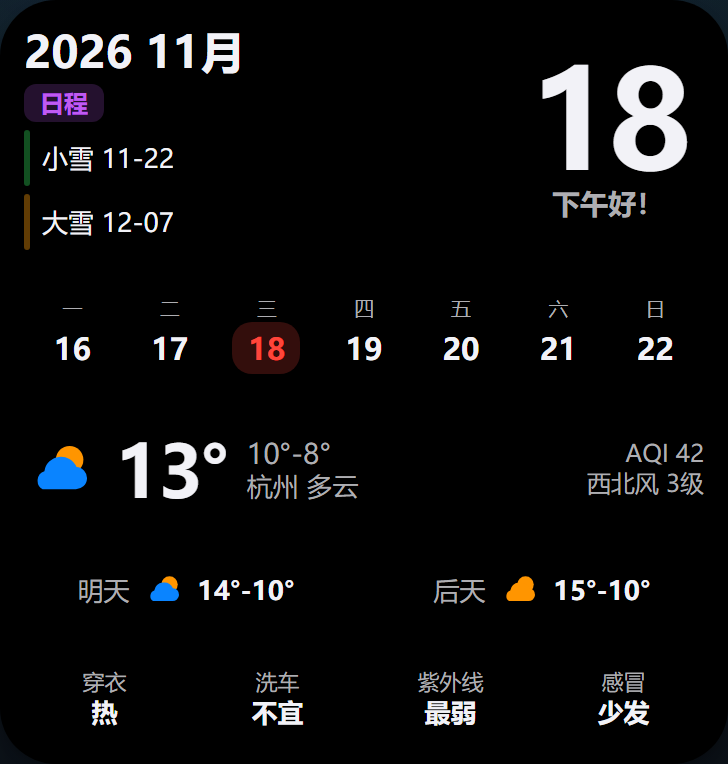
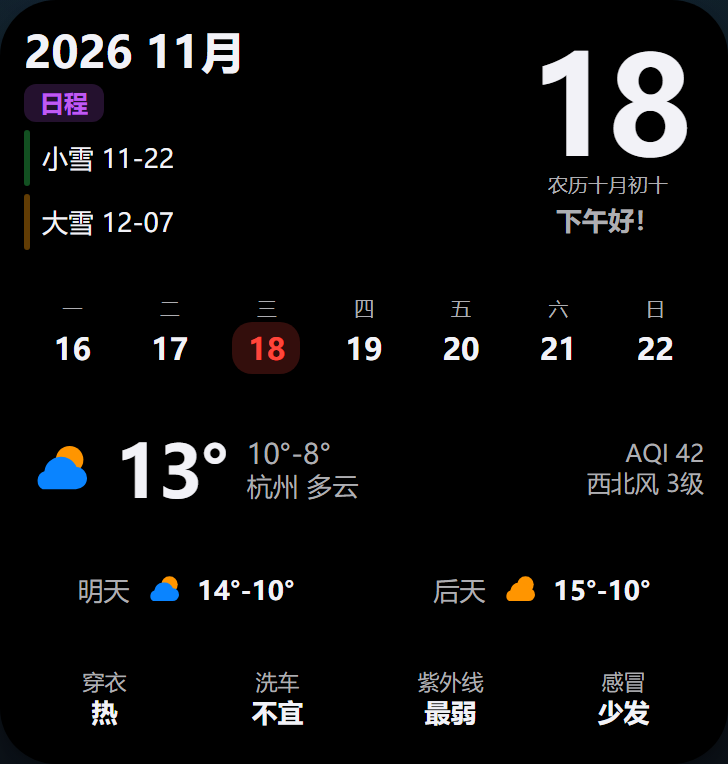
Show lunar date and solar term under the day

Changed region(s): [[0.7555, 0.0602, 0.967, 0.301], [0.7253, 0.0602, 0.8159, 0.1505]]

diff --git a/widget.tsx b/widget.tsx
@@ -547,6 +547,134 @@ function getNextTwoHolidays(): Array<{ name: string; md: string }> {
   return result
 }
 
+const LUNAR_INFO = [
+  0x04bd8, 0x04ae0, 0x0a570, 0x054d5, 0x0d260, 0x0d950, 0x16554, 0x056a0, 0x09ad0, 0x055d2,
+  0x04ae0, 0x0a5b6, 0x0a4d0, 0x0d250, 0x1d255, 0x0b540, 0x0d6a0, 0x0ada2, 0x095b0, 0x14977,
+  0x04970, 0x0a4b0, 0x0b4b5, 0x06a50, 0x06d40, 0x1ab54, 0x02b60, 0x09570, 0x052f2, 0x04970,
+  0x06566, 0x0d4a0, 0x0ea50, 0x06e95, 0x05ad0, 0x02b60, 0x186e3, 0x092e0, 0x1c8d7, 0x0c950,
+  0x0d4a0, 0x1d8a6, 0x0b550, 0x056a0, 0x1a5b4, 0x025d0, 0x092d0, 0x0d2b2, 0x0a950, 0x0b557,
+  0x06ca0, 0x0b550, 0x15355, 0x04da0, 0x0a5b0, 0x14573, 0x052b0, 0x0a9a8, 0x0e950, 0x06aa0,
+  0x0aea6, 0x0ab50, 0x04b60, 0x0aae4, 0x0a570, 0x05260, 0x0f263, 0x0d950, 0x05b57, 0x056a0,
+  0x096d0, 0x04dd5, 0x04ad0, 0x0a4d0, 0x0d4d4, 0x0d250, 0x0d558, 0x0b540, 0x0b6a0, 0x195a6,
+  0x095b0, 0x049b0, 0x0a974, 0x0a4b0, 0x0b27a, 0x06a50, 0x06d40, 0x0af46, 0x0ab60, 0x09570,
+  0x04af5, 0x04970, 0x064b0, 0x074a3, 0x0ea50, 0x06b58, 0x055c0, 0x0ab60, 0x096d5, 0x092e0,
+  0x0c960, 0x0d954, 0x0d4a0, 0x0da50, 0x07552, 0x056a0, 0x0abb7, 0x025d0, 0x092d0, 0x0cab5,
+  0x0a950, 0x0b4a0, 0x0baa4, 0x0ad50, 0x055d9, 0x04ba0, 0x0a5b0, 0x15176, 0x052b0, 0x0a930,
+  0x07954, 0x06aa0, 0x0ad50, 0x05b52, 0x04b60, 0x0a6e6, 0x0a4e0, 0x0d260, 0x0ea65, 0x0d530,
+  0x05aa0, 0x076a3, 0x096d0, 0x04afb, 0x04ad0, 0x0a4d0, 0x1d0b6, 0x0d250, 0x0d520, 0x0dd45,
+  0x0b5a0, 0x056d0, 0x055b2, 0x049b0, 0x0a577, 0x0a4b0, 0x0aa50, 0x1b255, 0x06d20, 0x0ada0,
+  0x14b63, 0x09370, 0x049f8, 0x04970, 0x064b0, 0x168a6, 0x0ea50, 0x06b20, 0x1a6c4, 0x0aae0,
+  0x0a2e0, 0x0d2e3, 0x0c960, 0x0d557, 0x0d4a0, 0x0da50, 0x05d55, 0x056a0, 0x0a6d0, 0x055d4,
+  0x052d0, 0x0a9b8, 0x0a950, 0x0b4a0, 0x0b6a6, 0x0ad50, 0x055a0, 0x0aba4, 0x0a5b0, 0x052b0,
+  0x0b273, 0x06930, 0x07337, 0x06aa0, 0x0ad50, 0x14b55, 0x04b60, 0x0a570, 0x054e4, 0x0d160,
+  0x0e968, 0x0d520, 0x0daa0, 0x16aa6, 0x056d0, 0x04ae0, 0x0a9d4, 0x0a2d0, 0x0d150, 0x0f252,
+  0x0d520,
+]
+
+const LUNAR_DAYS = [
+  "初一", "初二", "初三", "初四", "初五", "初六", "初七", "初八", "初九", "初十",
+  "十一", "十二", "十三", "十四", "十五", "十六", "十七", "十八", "十九", "二十",
+  "廿一", "廿二", "廿三", "廿四", "廿五", "廿六", "廿七", "廿八", "廿九", "三十",
+]
+
+const LUNAR_MONTHS = ["正", "二", "三", "四", "五", "六", "七", "八", "九", "十", "冬", "腊"]
+
+function lunarLeapMonth(year: number): number {
+  return LUNAR_INFO[year - 1900] & 0xf
+}
+
+function lunarLeapDays(year: number): number {
+  if (!lunarLeapMonth(year)) return 0
+  return LUNAR_INFO[year - 1900] & 0x10000 ? 30 : 29
+}
+
+function lunarMonthDays(year: number, month: number): number {
+  return LUNAR_INFO[year - 1900] & (0x10000 >> month) ? 30 : 29
+}
+
+function lunarYearDays(year: number): number {
+  let sum = 348
+  for (let mask = 0x8000; mask > 0x8; mask >>= 1) {
+    sum += LUNAR_INFO[year - 1900] & mask ? 1 : 0
+  }
+  return sum + lunarLeapDays(year)
+}
+
+function lunarText(date: Date): string {
+  const base = Date.UTC(1900, 0, 31)
+  const utc = Date.UTC(date.getFullYear(), date.getMonth(), date.getDate())
+  let offset = Math.floor((utc - base) / 86400000)
+  let year = 1900
+  let temp = 0
+
+  for (; year < 2101 && offset > 0; year++) {
+    temp = lunarYearDays(year)
+    offset -= temp
+  }
+  if (offset < 0) {
+    offset += temp
+    year--
+  }
+
+  const leap = lunarLeapMonth(year)
+  let isLeap = false
+  let month = 1
+
+  for (; month < 13 && offset > 0; month++) {
+    if (leap > 0 && month === leap + 1 && !isLeap) {
+      month--
+      isLeap = true
+      temp = lunarLeapDays(year)
+    } else {
+      temp = lunarMonthDays(year, month)
+    }
+    if (isLeap && month === leap + 1) isLeap = false
+    offset -= temp
+  }
+
+  if (offset === 0 && leap > 0 && month === leap + 1) {
+    if (isLeap) {
+      isLeap = false
+    } else {
+      isLeap = true
+      month--
+    }
+  }
+  if (offset < 0) {
+    offset += temp
+    month--
+  }
+
+  return `农历${isLeap ? "闰" : ""}${LUNAR_MONTHS[month - 1]}月${LUNAR_DAYS[offset]}`
+}
+
+const SOLAR_TERMS = [
+  "小寒", "大寒", "立春", "雨水", "惊蛰", "春分", "清明", "谷雨", "立夏", "小满", "芒种", "夏至",
+  "小暑", "大暑", "立秋", "处暑", "白露", "秋分", "寒露", "霜降", "立冬", "小雪", "大雪", "冬至",
+]
+
+const SOLAR_TERM_INFO = [
+  0, 21208, 42467, 63836, 85337, 107014, 128867, 150921, 173149, 195551, 218072, 240693,
+  263343, 285989, 308563, 331033, 353350, 375494, 397447, 419210, 440795, 462224, 483532, 504758,
+]
+
+function solarTermName(date: Date): string {
+  const year = date.getFullYear()
+  const month = date.getMonth() + 1
+  const day = date.getDate()
+  for (let index = (month - 1) * 2; index < month * 2; index++) {
+    const time =
+      Date.UTC(1900, 0, 6, 2, 5) +
+      31556925974.7 * (year - 1900) +
+      SOLAR_TERM_INFO[index] * 60000
+    const termDate = new Date(time)
+    if (termDate.getUTCMonth() + 1 === month && termDate.getUTCDate() === day) {
+      return SOLAR_TERMS[index]
+    }
+  }
+  return ""
+}
+
 /* ------------------------------------------------------------------
  * 小尺寸
  * ------------------------------------------------------------------ */
@@ -842,6 +970,9 @@ function LargeWidget({ model, name }: { model: WeatherModel; name: string }) {
   const now = new Date()
   const greet = greetingFor(now.getHours())
   const greeting = name ? `${name}，${greet}！` : `${greet}！`
+  const lunar = lunarText(now)
+  const term = solarTermName(now)
+  const lunarLine = term ? `${lunar}·${term}` : lunar
   const schedules = getNextTwoHolidays()
   const widgetWidth = Math.min(
     Widget.displaySize && Widget.displaySize.width ? Widget.displaySize.width : 364,
@@ -901,12 +1032,15 @@ function LargeWidget({ model, name }: { model: WeatherModel; name: string }) {
 
         <Spacer />
 
-        <VStack alignment="center" spacing={0} frame={{ width: 96 }}>
+        <VStack alignment="center" spacing={1} frame={{ width: 96 }}>
           <Text font={68} fontWeight="bold" foregroundStyle={C.text} lineLimit={1}>
             {now.getDate()}
           </Text>
+          <Text font={10} foregroundStyle={C.sub} lineLimit={1}>
+            {lunarLine}
+          </Text>
           <Text
-            font={14}
+            font={13}
             fontWeight="semibold"
             foregroundStyle={C.sub}
             lineLimit={1}

diff --git a/preview/预览.html b/preview/预览.html
@@ -123,7 +123,8 @@
   .l-hero svg { width: 62px; height: 62px; }
   .l-right { width: 96px; flex: none; display: flex; flex-direction: column; align-items: center; }
   .l-day { font-size: 68px; font-weight: 700; line-height: .92; letter-spacing: -.045em; }
-  .l-greet { font-size: 14px; font-weight: 600; color: var(--sub); white-space: nowrap; margin-top: 2px; }
+  .l-lunar { font-size: 10px; color: var(--sub); white-space: nowrap; margin-top: 3px; }
+  .l-greet { font-size: 13px; font-weight: 600; color: var(--sub); white-space: nowrap; margin-top: 2px; }
 
   .l-week { display: flex; align-items: center; height: 39px; flex: none; }
   .l-weekcell { width: 48.57px; display: flex; flex-direction: column; align-items: center; gap: 1px; }
@@ -184,6 +185,7 @@
         <div style="flex:1"></div>
         <div class="l-right">
           <div class="l-day">18</div>
+          <div class="l-lunar">农历十月初十</div>
           <div class="l-greet">下午好！</div>
         </div>
       </div>
@@ -250,6 +252,7 @@
         <div style="flex:1"></div>
         <div class="l-right">
           <div class="l-day">18</div>
+          <div class="l-lunar">农历十月初十</div>
           <div class="l-greet">下午好！</div>
         </div>
       </div>

diff --git a/README.md b/README.md
@@ -4,7 +4,7 @@
 
 支持小号、中号、大号，以及锁屏圆形 / 矩形 / 行内组件；深色和浅色模式都做了适配。
 
-大号按原始 Egern 模块的结构重做：左侧是年月、日程和最近两个节气/节日，中间暂时留空，右侧是大号日期和问候语；下方依次是本周日期、今日天气、明天/后天和生活指数。整体间距按组件高度均匀分布，不会在底部留出大片空白。
+大号按原始 Egern 模块的结构重做：左侧是年月、日程和最近两个节气/节日，中间暂时留空，右侧是大号日期、农历（当天是节气时一并显示）和问候语；下方依次是本周日期、今日天气、明天/后天和生活指数。整体间距按组件高度均匀分布，不会在底部留出大片空白。
 
 ![整体预览](preview/效果图.png)
 
@@ -95,6 +95,8 @@ https://www.scripting.fun/import_scripts/?urls=["https://raw.githubusercontent.c
 - 实况：`https://d1.weather.com.cn/weather_index/{城市编码}.html`
 - 7 天预报：`https://www.weather.com.cn/weather/{城市编码}.shtml`
 - 城市搜索：`https://toy1.weather.com.cn/search?cityname={城市名}`
+
+农历和节气都在本地计算，不联网：农历使用 1900–2100 年的标准农历表（含闰月），节气使用 1900 年起的分钟偏移近似算法。
 
 请求超时 10 秒，刷新策略是 30 分钟后请求下一次。iOS 的 WidgetKit 会自行决定实际刷新时刻，可能晚于 30 分钟。
 
